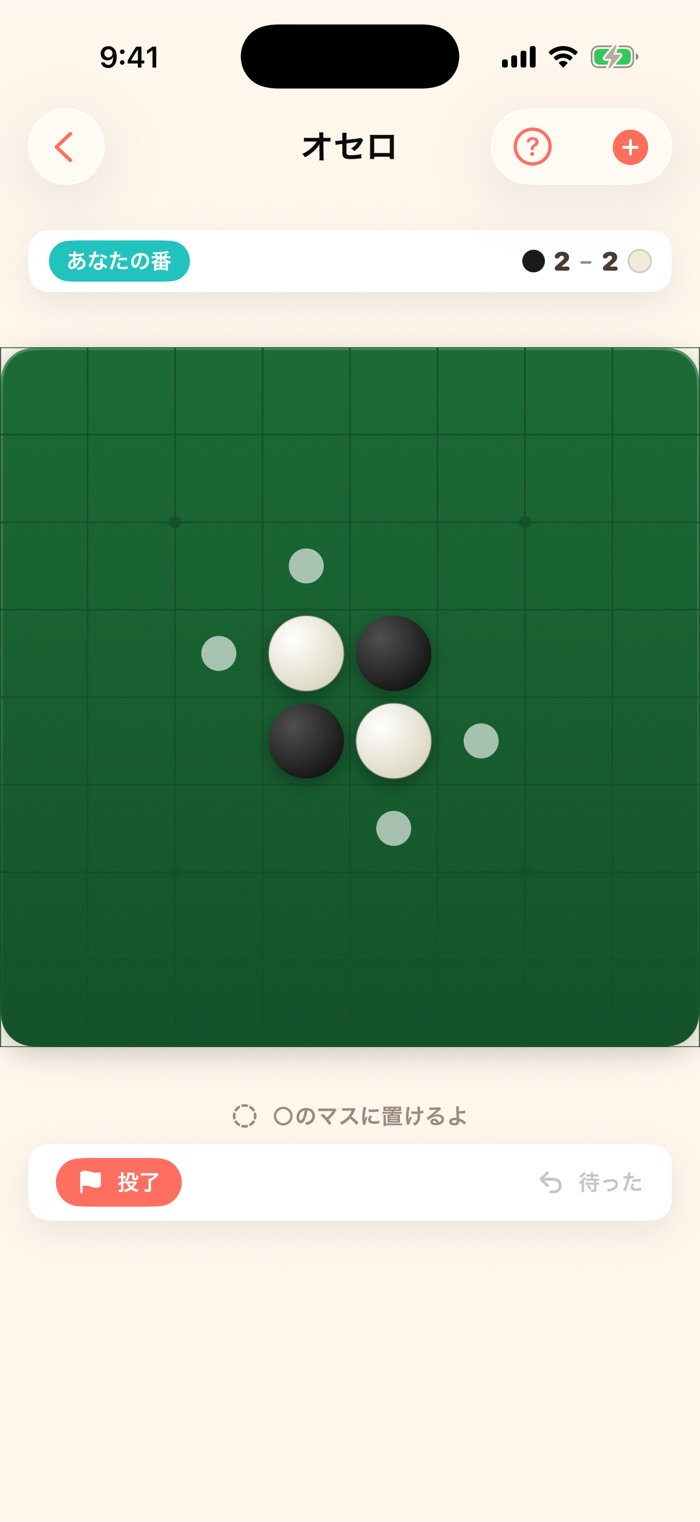
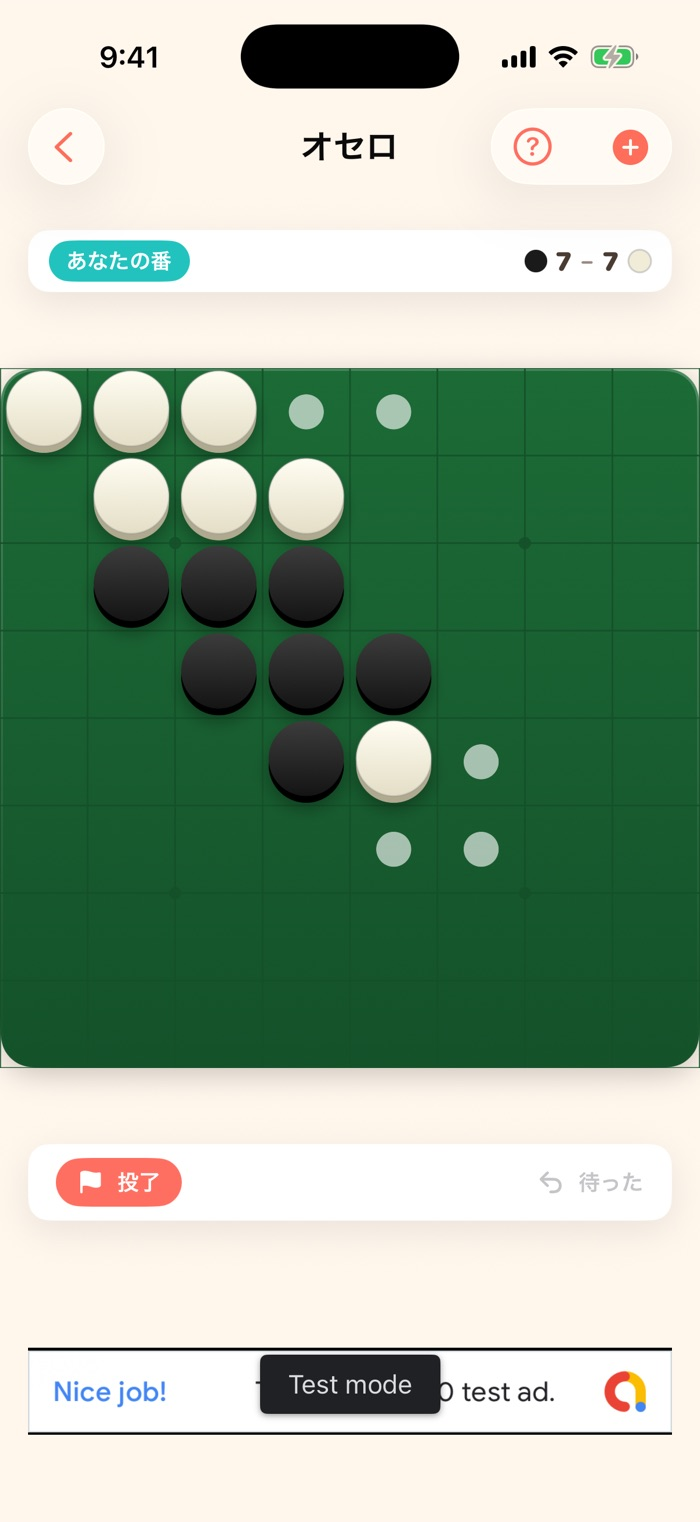
fix(othello): 石を碁石ではなく円柱（コイン）に見せる描画へ変更 (#366)
会長フィードバック対応。左上ハイライトのラジアル（ドームに見える）をやめ、
上面（平らな縦グラデーション）+ 下にのぞく側面だ円の2枚構成にする。
落ち影は側面にだけ掛け、上面の影が自分の縁に落ちて濁るのを防ぐ。

Claude-Session: https://claude.ai/code/session_015tRyhpZcJoRaDzRdHDSbei

diff --git a/Packages/GameKit/Sources/GameOthello/OthelloView.swift b/Packages/GameKit/Sources/GameOthello/OthelloView.swift
@@ -465,60 +465,88 @@ private struct OthelloBoardCanvas: View, Animatable {
                                           .opacity(OthelloBoardStyle.legalMoveDotOpacity)))
             }
 
-            // 石。落ち影は 1 枚のレイヤーにまとめて掛ける（フィルタは以後の描画それぞれに
-            // 適用されるので、石 1 枚ごとに影が付く）。マーカーには影を付けたくないため
-            // レイヤーの外で別に描く。
+            // 石は「上面 + 下にのぞく側面」の 2 枚のだ円で**上面が平らな円柱**に見せる（#366）。
+            // 1 枚のだ円にラジアルの照りを乗せるとドーム（碁石）に見えるので使わない。
+            // 石ごとの姿（色・幅・大きさ）をここで確定し、描画は 2 パスで行う。
+            struct StoneShape {
+                let faceRect: CGRect
+                let sideRect: CGRect
+                let shown: OthelloStone
+                let edgeShade: Double
+                let centerX: CGFloat
+            }
+            var shapes: [StoneShape] = []
+            for row in 0..<othelloBoardSize {
+                for col in 0..<othelloBoardSize {
+                    guard let stone = board[row, col] else { continue }
+                    let cx = (CGFloat(col) + 0.5) * c, cy = (CGFloat(row) + 0.5) * c
+                    var r  = c * OthelloBoardStyle.stoneRadiusRatio
+
+                    // 置いた瞬間の石は大きめに出して実寸へ落とす（ドロップ感・#366）。
+                    if let last = lastMove, last.row == row, last.col == col {
+                        r *= CGFloat(OthelloFlip.popScale(progress: progress))
+                    }
+
+                    // 返っている最中の石は、縦軸まわりに回っているように横幅だけ縮める。
+                    // 真横を向く折り返しで色が入れ替わるので、盤の色が変わる瞬間が目で追える。
+                    var shown = stone
+                    var rx = r
+                    if let last = lastMove, flippedCells.contains(row * othelloBoardSize + col) {
+                        let distance = max(abs(row - last.row), abs(col - last.col))
+                        let p = OthelloFlip.progress(distance: distance, overall: progress)
+                        shown = OthelloFlip.shownStone(target: stone, progress: p)
+                        rx = r * CGFloat(OthelloFlip.widthScale(progress: p))
+                    }
+
+                    // 側面の高さぶんを上下に振り分け、石全体をマスの中央に収める。
+                    let rimH = r * OthelloBoardStyle.stoneRimHeightRatio
+                    let faceRect = CGRect(x: cx - rx, y: cy - rimH / 2 - r, width: rx * 2, height: r * 2)
+                    shapes.append(StoneShape(
+                        faceRect: faceRect,
+                        sideRect: faceRect.offsetBy(dx: 0, dy: rimH),
+                        shown: shown,
+                        // 反転中は細くなった幅のぶんだけ暗く沈め、回転中の陰影に見せる。
+                        edgeShade: OthelloBoardStyle.flipEdgeShadeMaxOpacity
+                            * (1 - Double(rx / max(r, 0.0001))),
+                        centerX: cx))
+                }
+            }
+
+            // パス1: 側面（最下層）。落ち影はここにだけ掛ける（フィルタは以後の描画
+            // それぞれに適用されるので石 1 枚ごとに影が付く）。上面まで同じレイヤーに
+            // 入れると上面の影が自分の側面に落ちて縁が濁る。
             ctx.drawLayer { layer in
                 layer.addFilter(.shadow(
                     color: .black.opacity(OthelloBoardStyle.stoneShadowOpacity),
                     radius: c * OthelloBoardStyle.stoneShadowRadiusRatio,
                     x: 0, y: c * OthelloBoardStyle.stoneShadowOffsetRatio))
+                for shape in shapes {
+                    layer.fill(Path(ellipseIn: shape.sideRect),
+                               with: .color(Color(hex: shape.shown == .black
+                                                  ? OthelloBoardStyle.stoneBlackSide
+                                                  : OthelloBoardStyle.stoneWhiteSide)))
+                }
+            }
 
-                for row in 0..<othelloBoardSize {
-                    for col in 0..<othelloBoardSize {
-                        guard let stone = board[row, col] else { continue }
-                        let cx = (CGFloat(col) + 0.5) * c, cy = (CGFloat(row) + 0.5) * c
-                        var r  = c * OthelloBoardStyle.stoneRadiusRatio
-
-                        // 置いた瞬間の石は大きめに出して実寸へ落とす（ドロップ感・#366）。
-                        if let last = lastMove, last.row == row, last.col == col {
-                            r *= CGFloat(OthelloFlip.popScale(progress: progress))
-                        }
-
-                        // 返っている最中の石は、縦軸まわりに回っているように横幅だけ縮める。
-                        // 真横を向く折り返しで色が入れ替わるので、盤の色が変わる瞬間が目で追える。
-                        var shown = stone
-                        var rx = r
-                        if let last = lastMove, flippedCells.contains(row * othelloBoardSize + col) {
-                            let distance = max(abs(row - last.row), abs(col - last.col))
-                            let p = OthelloFlip.progress(distance: distance, overall: progress)
-                            shown = OthelloFlip.shownStone(target: stone, progress: p)
-                            rx = r * CGFloat(OthelloFlip.widthScale(progress: p))
-                        }
-
-                        let rect = CGRect(x: cx-rx, y: cy-r, width: rx*2, height: r*2)
-                        // 上面のふくらみは左上寄りのラジアルグラデーションで出す（#366）。
-                        let colors = shown == .black
-                            ? [Color(hex: OthelloBoardStyle.stoneBlackHighlight),
-                               Color(hex: OthelloBoardStyle.stoneBlackBase)]
-                            : [Color(hex: OthelloBoardStyle.stoneWhiteHighlight),
-                               Color(hex: OthelloBoardStyle.stoneWhiteBase)]
-                        layer.fill(Path(ellipseIn: rect), with: .radialGradient(
-                            Gradient(colors: colors),
-                            center: CGPoint(x: cx - r * 0.35, y: cy - r * 0.4),
-                            startRadius: 0,
-                            endRadius: r * 1.7))
-                        if shown == .white {
-                            layer.stroke(Path(ellipseIn: rect),
-                                         with: .color(Color.gray.opacity(0.3)), lineWidth: 1)
-                        }
-                        // 反転中は細くなった幅のぶんだけ暗く沈め、円盤の縁（厚み）に見せる。
-                        let edgeShade = OthelloBoardStyle.flipEdgeShadeMaxOpacity
-                            * (1 - Double(rx / max(r, 0.0001)))
-                        if edgeShade > 0.01 {
-                            layer.fill(Path(ellipseIn: rect), with: .color(.black.opacity(edgeShade)))
-                        }
-                    }
+            // パス2: 上面。平らな面に見えるよう明度差の小さい縦グラデーションに留める。
+            for shape in shapes {
+                let colors = shape.shown == .black
+                    ? [Color(hex: OthelloBoardStyle.stoneBlackFaceTop),
+                       Color(hex: OthelloBoardStyle.stoneBlackFaceBottom)]
+                    : [Color(hex: OthelloBoardStyle.stoneWhiteFaceTop),
+                       Color(hex: OthelloBoardStyle.stoneWhiteFaceBottom)]
+                let facePath = Path(ellipseIn: shape.faceRect)
+                ctx.fill(facePath, with: .linearGradient(
+                    Gradient(colors: colors),
+                    startPoint: CGPoint(x: shape.centerX, y: shape.faceRect.minY),
+                    endPoint: CGPoint(x: shape.centerX, y: shape.faceRect.maxY)))
+                if shape.shown == .white {
+                    ctx.stroke(facePath, with: .color(Color.gray.opacity(0.3)), lineWidth: 1)
+                }
+                if shape.edgeShade > 0.01 {
+                    ctx.fill(facePath, with: .color(.black.opacity(shape.edgeShade)))
+                    ctx.fill(Path(ellipseIn: shape.sideRect),
+                             with: .color(.black.opacity(shape.edgeShade)))
                 }
             }
 
@@ -526,8 +554,11 @@ private struct OthelloBoardCanvas: View, Animatable {
             // 反転の進みに合わせてフェードインさせ、着地前の石に印が乗らないようにする。
             if let last = lastMove, let stone = board[last.row, last.col] {
                 let cx = (CGFloat(last.col) + 0.5) * c, cy = (CGFloat(last.row) + 0.5) * c
-                let mr = c * OthelloBoardStyle.stoneRadiusRatio * 0.3
-                let mRect = CGRect(x: cx-mr, y: cy-mr, width: mr*2, height: mr*2)
+                let r = c * OthelloBoardStyle.stoneRadiusRatio
+                // 上面の中心（側面ぶん上にずれている）へ合わせる。
+                let faceCY = cy - r * OthelloBoardStyle.stoneRimHeightRatio / 2
+                let mr = r * 0.3
+                let mRect = CGRect(x: cx-mr, y: faceCY-mr, width: mr*2, height: mr*2)
                 ctx.fill(Path(ellipseIn: mRect),
                          with: .color((stone == .black
                                        ? Color.white.opacity(0.5)

diff --git a/Packages/GameKit/Sources/GameOthello/OthelloBoardStyle.swift b/Packages/GameKit/Sources/GameOthello/OthelloBoardStyle.swift
@@ -22,14 +22,19 @@ enum OthelloBoardStyle {
 
     // MARK: - 石の質感（#366）
 
-    /// 黒石のハイライト側（左上の照り）とベース側。ラジアルグラデーションの両端。
-    static let stoneBlackHighlight: UInt32 = 0x4F4F4F
-    static let stoneBlackBase: UInt32 = 0x0E0E0E
+    /// オセロの石は碁石（半球）ではなく**上面が平らな円柱**に見せる（会長フィードバック）。
+    /// 上面は縦の linear グラデーション（明度差は控えめ）、その下に側面のだ円をのぞかせる。
+    /// 左上ハイライトのラジアルにするとドーム（碁石）に見えるので使わない。
+    static let stoneBlackFaceTop: UInt32 = 0x3C3C3C
+    static let stoneBlackFaceBottom: UInt32 = 0x141414
+    static let stoneBlackSide: UInt32 = 0x000000
 
-    /// 白石のハイライト側とベース側。ベースは従来の単色（0xF0ECD8）より一段暗く沈め、
-    /// ハイライトとの差で盤上の白石にふくらみを出す。
-    static let stoneWhiteHighlight: UInt32 = 0xFFFFFF
-    static let stoneWhiteBase: UInt32 = 0xD8D2B9
+    static let stoneWhiteFaceTop: UInt32 = 0xFFFDF2
+    static let stoneWhiteFaceBottom: UInt32 = 0xE4DEC6
+    static let stoneWhiteSide: UInt32 = 0xAFA98F
+
+    /// 側面が見える高さ（石の半径に対する比）。上面と側面のだ円をこれだけ縦にずらす。
+    static let stoneRimHeightRatio: CGFloat = 0.18
 
     /// 石の落ち影。ぼかし半径と下方向のずれはマスの一辺に対する比で持つ。
     static let stoneShadowOpacity: Double = 0.30
